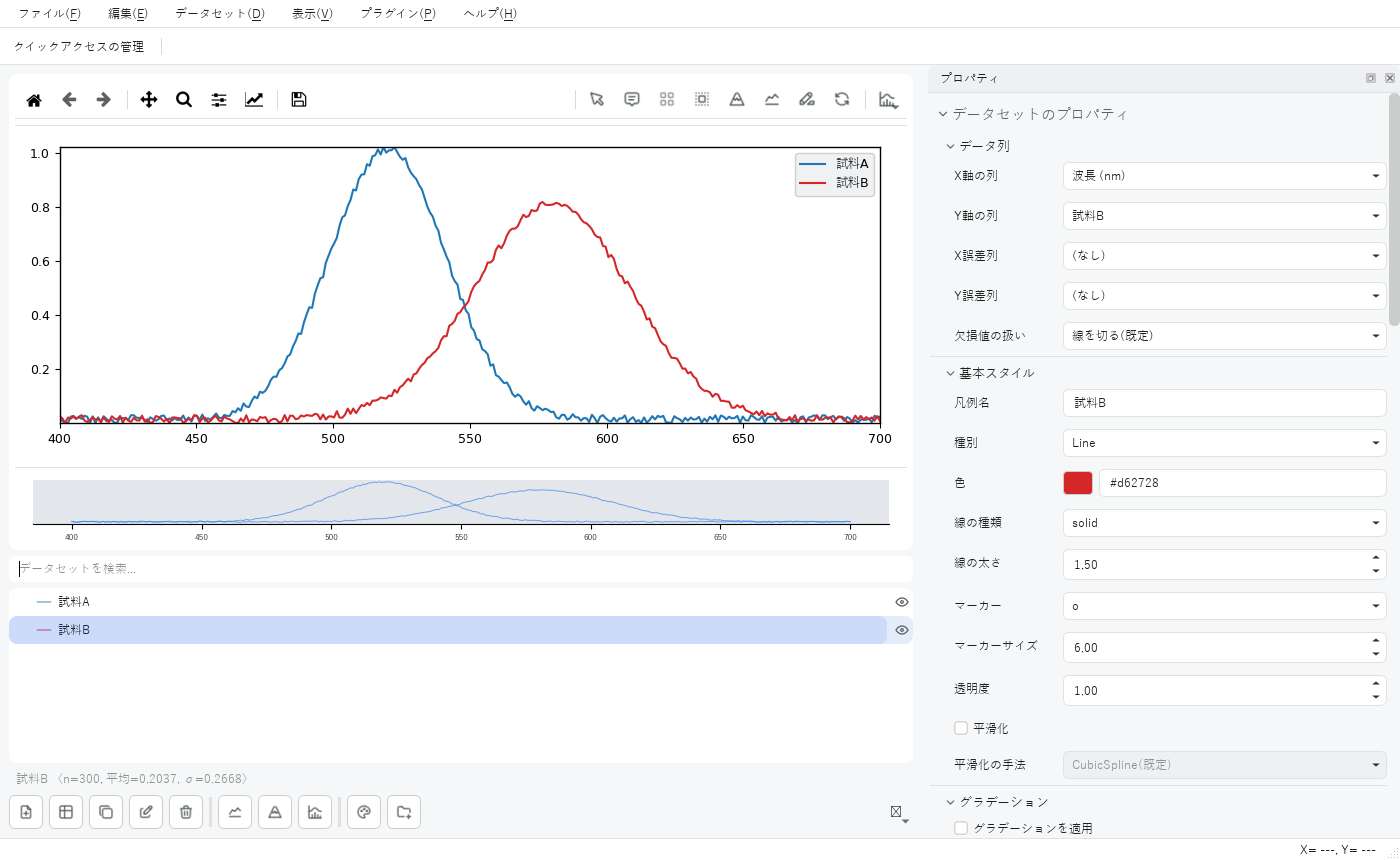
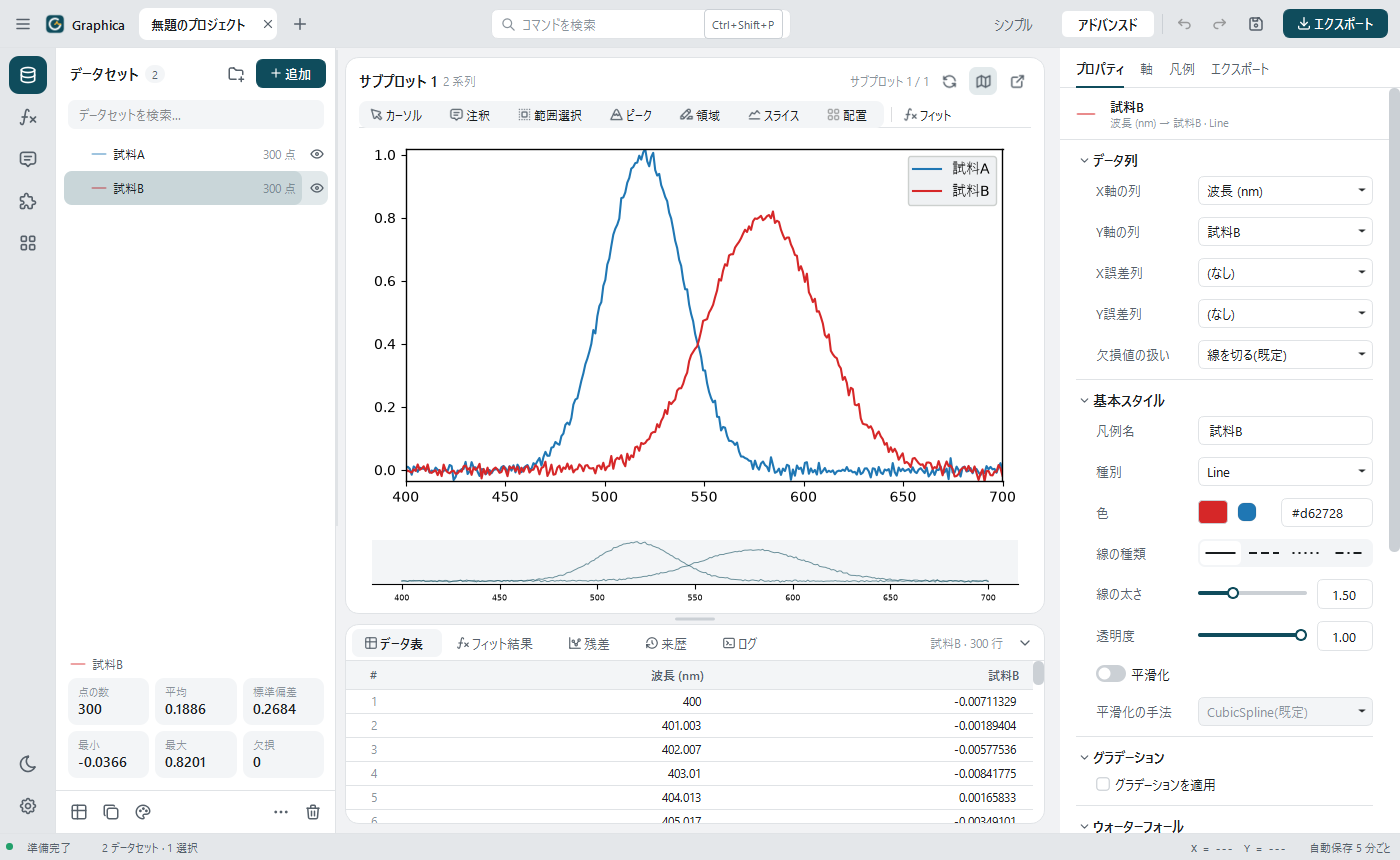
docs: 新しい画面に合わせて README・サイトの画像・CHANGELOG を更新する(GUI 刷新 PR 9)
- README(日本語・英語)の画面構成・ボタンの場所・表示メニューの説明を新しい画面に
- README とサイトの画面全体の画像(main_window・fit・baseline)を撮り直す
- CHANGELOG の「未リリース」に GUI 刷新
- CLAUDE.md のドックの配置の説明、計画の進み具合、CURRENT_STATE

diff --git a/Graphica_project/docs/site/index.html b/Graphica_project/docs/site/index.html
@@ -194,7 +194,7 @@ footer .links { display: flex; flex-wrap: wrap; gap: 6px 20px; margin-bottom: 12
         <span class="badge">Windows</span><span class="badge">macOS (Apple Silicon)</span><span class="badge">Python 3.10+</span><span class="badge">日本語 / English</span>
       </div>
       <div class="shot">
-        <img src="images/main_window.png" width="1400" height="860" alt="Graphica のメイン画面。2つのスペクトルを重ねたグラフと、右側のプロパティ欄">
+        <img src="images/main_window.png" width="1400" height="860" alt="Graphica のメイン画面。左にデータセット、中央に2つのスペクトルを重ねたグラフとデータ表、右にプロパティ">
       </div>
     </div>
   </div>
@@ -303,7 +303,7 @@ footer .links { display: flex; flex-wrap: wrap; gap: 6px 20px; margin-bottom: 12
       <h2>画面と作例</h2>
       <p class="sub">どれも Graphica で作ったグラフです。</p>
       <div class="gallery">
-        <figure><img src="images/fit.png" width="1400" height="1080" loading="lazy" alt="ガウシアンでの曲線フィットと、下に並んだ残差プロット"><figcaption><strong>曲線フィット</strong>フィットの曲線と信頼帯、残差プロットを同じ画面で確認できます。</figcaption></figure>
+        <figure><img src="images/fit.png" width="1400" height="1061" loading="lazy" alt="ガウシアンでの曲線フィットと、下に並んだ残差プロット"><figcaption><strong>曲線フィット</strong>フィットの曲線と信頼帯、残差プロットを同じ画面で確認できます。</figcaption></figure>
         <figure><img src="images/baseline.png" width="1400" height="860" loading="lazy" alt="スペクトルのベースライン補正。元のデータ、推定したベースライン、補正後のデータ"><figcaption><strong>ベースライン補正</strong>元のデータ・ベースライン・補正後を重ねて描き、処理の履歴も残ります。</figcaption></figure>
         <figure><img src="images/waterfall.png" width="592" height="329" loading="lazy" alt="温度ごとのスペクトルを少しずつずらして重ねたウォーターフォール表示"><figcaption><strong>ウォーターフォール表示</strong>条件を変えた複数のスペクトルを、ずらして比べられます。</figcaption></figure>
         <figure><img src="images/multipanel.png" width="592" height="329" loading="lazy" alt="(a)(b) のパネルラベルが付いた2枚並びの図"><figcaption><strong>論文用の多パネル図</strong>サブプロットにパネルラベル (a)(b) を付けて、そのまま書き出せます。</figcaption></figure>

diff --git a/CLAUDE.md b/CLAUDE.md
@@ -159,7 +159,7 @@ The app's 47 dialogs live in a **package**, not one module (item B-2 split the f
 
 Traversing `self.menuBar().actions()` and then calling `.menu()` on each top-level action to reach a `QMenu` — even when the result is used immediately, in the same call — can cause that `QMenu` and its child `QAction`s to become invalid ("Internal C++ object already deleted") sometime after the traversal, for reasons not fully understood at the shiboken level. The fix used throughout this codebase is to cache top-level menus as persistent `self._file_menu` / `self._edit_menu` / etc. attributes at menu-creation time, and always traverse from those cached references rather than re-deriving them via `menuBar().actions()`. The command palette, quick-access manager, and shortcuts-list dialog all depend on this pattern (`_collect_menu_actions()` in `gui/mixins/ui_setup_mixin.py`).
 
-**Caching the `QMenu` is not enough for a submenu — cache its `menuAction()` too.** When `_collect_menu_actions()` recursed into the "ドックレイアウト" submenu (the first real submenu it ever walked; "最近使ったファイル" is explicitly excluded, and the plugin submenus only exist when a plugin registers one), a single call was enough to destroy that submenu permanently: every later access raised "Internal C++ object already deleted", so opening the command palette once broke the menu for the rest of the session. Holding `self._dock_layout_menu` did **not** prevent it — the object that gets collected is the `QAction` that `addMenu()` returns/attaches (`QMenu.menuAction()`), and destroying it takes its `QMenu` and all children with it. **Every submenu needs both kept alive.** `build_menu_bar()` does this for everything it creates — each `QMenu`, its `menuAction()` and every `QAction` go into `app._menu_keepalive` — so a `Submenu` row is safe as is. Code that builds a menu by hand (the dataset context menu, anything outside the table) must still store both:
+**Caching the `QMenu` is not enough for a submenu — cache its `menuAction()` too.** When `_collect_menu_actions()` recursed into the former "ドックレイアウト" submenu (the first real submenu it ever walked; "最近使ったファイル" is explicitly excluded, and the plugin submenus only exist when a plugin registers one), a single call was enough to destroy that submenu permanently: every later access raised "Internal C++ object already deleted", so opening the command palette once broke the menu for the rest of the session. Holding `self._dock_layout_menu` did **not** prevent it — the object that gets collected is the `QAction` that `addMenu()` returns/attaches (`QMenu.menuAction()`), and destroying it takes its `QMenu` and all children with it. **Every submenu needs both kept alive.** `build_menu_bar()` does this for everything it creates — each `QMenu`, its `menuAction()` and every `QAction` go into `app._menu_keepalive` — so a `Submenu` row is safe as is. Code that builds a menu by hand (the dataset context menu, anything outside the table) must still store both:
 
 ```python
 sub = parent_menu.addMenu(tr("..."))
@@ -183,13 +183,13 @@ Note also the pre-existing limitation that menu items nested two or more levels 
 
 ### Settings and autosave
 
-`QSettings("Graphica", "Graphica")` persists dark mode, autosave interval/directory, recent files, window/dock layout, named dock-layout presets, custom color palettes and the active palette, quick-access pins, disabled plugins, language, minimap visibility, detached-canvas state, snap-to-grid, `point_label_max_points`, and the `clean_exit` / `has_shown_welcome` / `dock_layout_version` bookkeeping flags. Values that aren't plain scalars are stored as **JSON strings** (and binary Qt data such as `saveState()` output is base64-encoded first, see `DOCK_LAYOUT_PRESETS_SETTINGS_KEY`) — follow that pattern rather than storing Python objects.
+`QSettings("Graphica", "Graphica")` persists dark mode, autosave interval/directory, recent files, window/dock layout, custom color palettes and the active palette, quick-access pins, disabled plugins, language, minimap visibility, detached-canvas state, snap-to-grid, `point_label_max_points`, and the `clean_exit` / `has_shown_welcome` / `dock_layout_version` bookkeeping flags. Values that aren't plain scalars are stored as **JSON strings** (binary Qt data that goes inside JSON must be base64-encoded first) — follow that pattern rather than storing Python objects.
 
 **Every setting is a row in `gui/app_settings.py`** (R-4): a `Setting(key, default, value_type, export_as, export_default)` read with `SETTING.read(settings)` and written with `SETTING.write(settings, value)`, and `open_settings()` is the only place a `QSettings` is created (`tests/test_app_settings_table.py` enforces it). Tests isolate settings by patching `app_settings_module.QSettings`. The rows copy each key's historical read exactly: an untyped read (`value_type=None`) returns strings like `'false'` from INI, some sites pass their own `default=` (e.g. the preferences dialog defaults `language` to the current UI language, the palette code defaults the active palette to the dialog's default name), and the single-item-list fixes differ by reader (`as_list_keeping_empty_string` vs. the export's). Changing a type or a default is a behaviour change. `EXPORTED_SETTINGS` is the settings export/import list in JSON order; `core/named_colors.py` keeps its own key because `core` cannot import `gui`.
 
 Autosave writes to `AUTOSAVE_FILENAME` (`autosave.gra`, JSON format; recovery also looks for the pre-K-42 `autosave.graphica`) under a configurable directory (`autosave_dir`, empty = `core/app_paths.py`'s `get_app_data_dir()`, i.e. `%LOCALAPPDATA%\Graphica`) with generation rotation (`_rotate_autosave_generations`, keeps `AUTOSAVE_GENERATIONS` copies; both in `gui/project_files.py`).
 
-Dock layout has two independent mechanisms, and they are easy to confuse: **startup restore** (`saveState()`/`restoreState()` via the `window_state` key) happens only on the first tab and only when `dock_layout_version` matches — so changing the default dock-size constants in code has no visible effect until the user resets or manually resizes. Separately, item C-911 added **manual, always-available** named presets (View ▸ ドックレイアウト ▸ 保存/読み込み/リセット) that work on every tab regardless of `run_startup_checks`; "リセット" restores `self._pristine_dock_state`, snapshotted in `__init__` before any restore happens.
+Dock layout is restored only at startup (`saveState()`/`restoreState()` via the `window_state` key), only on the first tab and only when `dock_layout_version` matches — so bump `DOCK_LAYOUT_VERSION` (`gui/builders/common.py`) whenever the docks change, or existing users keep the old arrangement. The panels are fixed in the GUI redesign (decision 5): the inspector dock has no title bar or dock features, and there are no named layout presets any more.
 
 ## Planning documents and active roadmap
 

diff --git a/Graphica_project/docs/dev/GUI_REDESIGN_PLAN.md b/Graphica_project/docs/dev/GUI_REDESIGN_PLAN.md
@@ -68,7 +68,8 @@
 | 6a | マージ済み(#147) | インスペクタ(`gui/shell/inspector.py`、幅 340px): 右のドックの中身をタブ「プロパティ / 軸 / 凡例(Advanced) / エクスポート」に。プロパティは対象の見出し+節(マーカーを独立した節に、節の見出しは `SectionHeader`、閉じた節には状態の要約)、軸は今の軸の設定(長い行は名前を上に折り返す `wrap_long_rows`)、凡例は軸の設定のフォームから凡例の行を移したもの、エクスポートはプレビューのドックをやめてタブに(`show_export_preview()` で前に出す)。上の階層の開閉(`collapsible_section_toggle`)は廃止。340px に収まるよう、長い項目のコンボは `cap_combo_width`、第2Y軸の数値欄は最小幅を指定、「2Dグリッドデータとして扱う」は「2Dグリッドとして扱う」に短縮 |
 | 6b | マージ済み(#148) | プロパティの部品(`builders/property_widgets.py`): 線の種類のセグメント(`ComboMirror`、コンボは隠して欄の中に残す)、太さ・透明度の `SliderSpin`、平滑化のスイッチ、色のチップ(`ColorPickerWidget.show_quick_colors`、幅に入るだけ並べる)、シンプルの種類のタイル。バインディングで戻したあとは `refresh_property_widgets()`。シンプルの行と節は `ui_mode.LITE_HIDDEN_PROPERTY_FIELDS` / `LITE_PROPERTY_SECTIONS` で、種類などの今の条件のあとに `update_property_section_visibility` が隠す(モードを替えると `property_panel.update_mode_visibility()` で当て直す)。下に「アドバンスドですべて表示」の案内。名前の列は見本どおり 92px(長い名前は折り返す)。決定 7 の「線+点」は、Line がマーカーを描かない種類なので Line+Scatter にし、マーカーが無ければ円に(1つの「元に戻す」) |
 | 7 | マージ済み(#149) | グラフの下のパネル(`gui/shell/bottom_panel.py`、アドバンスドだけ): グラフのカードと仕切り(`CenterSplitter`、つまみの横棒)で上下に分け、タブ「データ表・フィット結果・残差・来歴・ログ」。データ表は `gui/data_table_model.py`(読むだけ、行は visible_df、# は元の表の行の番号、フィットがあればフィット値・残差、負の残差は赤、カーソルで選んだ点の行に印)。フィット値は `core/analysis.evaluate_saved_fit()` で保存したパラメータから計算。元のデータを選んでも、そこから作ったフィットの結果を出す(`fit_result_for`)。フィット結果は `fit_info_textedit` をプロパティの「配置・情報」から移し、タブに R² のバッジ。残差・来歴のドックはやめてタブに(表示メニューはタブを開く項目、シンプルならアドバンスドに切り替える)。ログは `logging` のハンドラからこのウィンドウを開いてからの行。`DOCK_LAYOUT_VERSION` は 6。`screenshot_ui.py --bottom` でフィット付きの各タブを撮る。見本の絞り込みのボタンは未実装 |
-| 8 | 作業中 | ステータスバー(`builders/canvas_area.setup_status_bar`): 左に「● 準備完了」と(アドバンスド)「N データセット · M 選択」、右に(アドバンスド)座標「X = …　Y = …」と「自動保存 N 分前 / たった今 / N 分ごと / オフ」(30 秒ごと・自動保存のたびに書き直す)。左の2つは通常の部品なので `showMessage()` の間は知らせに置き換わる。⚙ は `gui/shell/settings_popover.py` のポップアップ(プリセット8色・カスタム・ライト/ダークで使う色・読みやすさの調整の説明・既定に戻す・環境設定への入口)。色は `set_theme_color()`(`MainAppWindow` が全部のタブに当てる。タブの描き直しはダークモードと共通の `refresh_theme_colors()`)。環境設定の「外観」にもテーマカラー。`screenshot_ui.py --settings` |
+| 8 | マージ済み(#150) | ステータスバー(`builders/canvas_area.setup_status_bar`): 左に「● 準備完了」と(アドバンスド)「N データセット · M 選択」、右に(アドバンスド)座標「X = …　Y = …」と「自動保存 N 分前 / たった今 / N 分ごと / オフ」(30 秒ごと・自動保存のたびに書き直す)。左の2つは通常の部品なので `showMessage()` の間は知らせに置き換わる。⚙ は `gui/shell/settings_popover.py` のポップアップ(プリセット8色・カスタム・ライト/ダークで使う色・読みやすさの調整の説明・既定に戻す・環境設定への入口)。色は `set_theme_color()`(`MainAppWindow` が全部のタブに当てる。タブの描き直しはダークモードと共通の `refresh_theme_colors()`)。環境設定の「外観」にもテーマカラー。`screenshot_ui.py --settings` |
+| 9 | 作業中 | 仕上げ: ドックレイアウトのプリセットを削除(決定 5。メニュー・`dock_layout` の関数・設定の行。サブメニューの GC の回帰テストは「エクスポート」に向け直した)、英語表示のテストを MainAppWindow で両モード(上部バー・⚙ のポップアップまで)、訳し漏れ(Undo履歴・無題のプロジェクト)、README(日本語・英語)の画面の説明、README とサイトの画像(`screenshot_ui.py --site`)、CHANGELOG の「未リリース」。macOS 実機の確認・Wiki・プラグイン開発ハブへの連絡はユーザーの確認待ち |
 
 CI の揺れ: `test_rendering[dark]` の画素(注釈のシナリオ)が CI だけで1回落ち、再実行で通った(PR 1)。master でも同じテストが時々落ちる(#137 で直したのはレイアウトの数値だけ)。続くようなら画素の比較にも許容を入れるか、画像を CI の成果物に残す。
 

diff --git a/CHANGELOG.md b/CHANGELOG.md
@@ -1,5 +1,40 @@
 # 変更履歴
 
+## 未リリース
+
+画面のデザインを新しくしました。項目をしぼった **シンプル** と、すべての設定と解析の結果を並べる **アドバンスド** を、
+同じ画面のまま切り替えられます。ボタンや選択の色(テーマカラー)も選べるようになりました。データやプロジェクトの形式は変わりません。
+
+### 新機能
+
+- **シンプル / アドバンスドの表示を切り替えられるようにしました**(上部バーの右)。シンプルは X/Y の列・種類のアイコン
+  (線・点・線+点・棒)・凡例名・色・線の種類・線の太さだけを出し、グラフの道具はグラフの左にアイコンで並べます。
+  アドバンスドはすべての項目と、グラフの上に名前付きの道具、グラフの下のパネルを出します。切り替えても値は変わりません。
+  初めて起動したときはシンプル、以前の版から更新した場合はアドバンスドで始まります。
+- **テーマカラーを選べるようにしました。** 左端の帯の ⚙ から、プリセット8色か好きな色を選べます(既定はアイコンの色)。
+  読みにくい色は明るさを自動で調整し、ライト・ダークそれぞれで使う色を表示します。環境設定の「外観」にも同じ設定があります。
+- **グラフの下のパネル(アドバンスド)を加えました。** 選んだデータセットの表(フィット値と残差の列付き。データカーソルで選んだ点の行に印)、
+  フィット結果(R² のバッジ)、残差、来歴(処理の履歴)、ログをタブで切り替えます。元のデータを選んでも、そこから作ったフィットの結果を出します。
+
+### 改善
+
+- **画面の構成を新しくしました。** 上部バー(≡ メニュー・プロジェクトのタブ・コマンドの検索・元に戻す/やり直す・保存・エクスポート)、
+  左端の帯(データセット・解析・注釈・プラグイン・レイアウトのページ)、左のデータセットのパネル(統計のカード付き)、
+  中央のグラフのカード、右のインスペクタ(プロパティ・軸・凡例・エクスポートのタブ)にしました。
+  Windows ではメニューを ≡ にまとめています(macOS は画面上部のメニューバーも使えます)。
+- **プロパティの部品を新しくしました。** 線の種類はボタン、線の太さと透明度はスライダー、平滑化はスイッチ、
+  色は見本の横に今のパレットの色を並べます。マーカーは独立した区分になり、閉じた区分には「オフ」などの状態を表示します。
+- **エクスポートのプレビューはインスペクタの「エクスポート」タブに、プラグインのパネルは左端の帯の「プラグイン」ページに移しました。**
+- **ステータスバーに「準備完了」と自動保存の状態(何分前に保存したか)を出すようにしました。** アドバンスドではデータセット・選択の数と座標も出ます。
+- **データカーソルの吹き出しを「#行 · X 値 · Y 値」の形にしました。**
+
+### 変更
+
+- 残差プロット・処理履歴のドックは、グラフの下のパネルのタブになりました(表示メニューの項目はタブを開きます)。
+- ドックレイアウトの保存・読み込み・リセットはなくしました(パネルの位置は固定です)。キャンバスの別ウィンドウへの切り離しは残っています。
+- ツールバーの「統計情報」ボタンとデータセット一覧の下の1行の要約は、左パネルの統計のカードになりました。
+- 「2Dグリッドデータとして扱う」の表示を「2Dグリッドとして扱う」に短くしました。
+
 ## v2.3.0 (2026-10-12)
 
 散布図のマーカーの塗り・枠線・形を選べるようにし、最後のタブも閉じられるようにしました。

diff --git a/README.en.md b/README.en.md
@@ -22,6 +22,14 @@ data to a finished figure stays in one place. Free and open source (MIT), for Wi
 
 ## Features
 
+**One window, two views**
+- **Simple** shows only the essentials (columns, plot type icons, color, line style and width); **Advanced** adds
+  every setting, a labeled tool bar above the plot, and a bottom panel with a data table, fit results, residuals,
+  processing history and a log. Switching never changes your data or settings.
+- A left rail for datasets, analysis, annotations, plugins and layout; an inspector on the right with properties,
+  axes, legend and a live export preview
+- Light and dark themes, and a theme color of your choice (adjusted automatically when a color would be hard to read)
+
 **Importing data**
 - CSV and text files (`.csv` / `.txt`) with automatic detection of encoding (UTF-8, Shift_JIS, …) and delimiter
   (comma, tab, semicolon, whitespace)
@@ -34,7 +42,7 @@ data to a finished figure stays in one place. Free and open source (MIT), for Wi
   (nm / eV / cm⁻¹ / Hz)
 - Multiple subplots in a grid or free layout, with automatic panel labels ((a), (b), (c), …)
 - Waterfall (stacked) display, gradients, and 2D maps as heatmaps or contour plots
-- Fine control over ticks, grids, fonts, legends and mathtext labels; dark mode
+- Fine control over ticks, grids, fonts, legends and mathtext labels
 - Named colors, so the same sample keeps the same color across figures
 
 **Processing and analysis**
@@ -72,7 +80,7 @@ No installation is needed.
 
 ### Switching the interface to English
 
-1. Open **編集 (Edit) ▸ 環境設定... (Preferences...)**.
+1. Click **⚙** at the bottom of the left rail and choose **環境設定... (Preferences...)**, or open **≡ ▸ 編集 (Edit) ▸ 環境設定...**.
 2. On the **一般** (General) tab, set **言語** (Language) to **English**.
 3. Click OK and restart Graphica.
 

diff --git a/Graphica_project/docs/dev/CURRENT_STATE.md b/Graphica_project/docs/dev/CURRENT_STATE.md
@@ -13,7 +13,18 @@
   URLが失われていてもファイル自体がリポジトリにあるので、`DATA`配列の`true`/`false`を見れば
   完了状況が分かる)
 
-## 現在地(2026-10-12): GUI 刷新を統合ブランチ `feature/gui-redesign` で始めた
+## 現在地(2026-10-12): GUI 刷新の PR 0〜8 を統合ブランチにマージし、PR 9(仕上げ)を作った
+
+- PR 1〜8(#142〜#150)は統合ブランチ `feature/gui-redesign` にマージ済み。PR 9 は仕上げ(ドックレイアウトのプリセットの削除・
+  英語表示のテストを両モードで・README とサイトの画像・CHANGELOG の「未リリース」)。
+- **残り(ユーザー)**: macOS 実機の確認(PR 9 にまとめる指示)、`feature/gui-redesign` → `master` の最終確認。
+  master に入れたら `build.yml` の `pull_request.branches` から統合ブランチを外す。
+- **ユーザーの了承が要るもの(未実施)**: ユーザー向け Wiki の画面写真と説明の更新、プラグイン開発ハブへの連絡
+  (プラグインのパネルは左端の帯の「プラグイン」ページ・幅 280px。mass-spec のパネルは空でウィンドウを開く作りなので、ページが空に見える。
+  color-studio の下のボタンが幅に入らない)。
+- 刷新の前の記録は下の節。
+
+## 以前の現在地(2026-10-12): GUI 刷新を統合ブランチ `feature/gui-redesign` で始めた
 
 - **まず `docs/dev/GUI_REDESIGN_PLAN.md` を読むこと。** 決まったこと・PR の順番(0〜9)・進み具合の表がある。
   計画の全文と再現する見本は `docs/dev/mockups/gui_redesign/`(`plan.html`・`final_lite_advanced.html`)。
